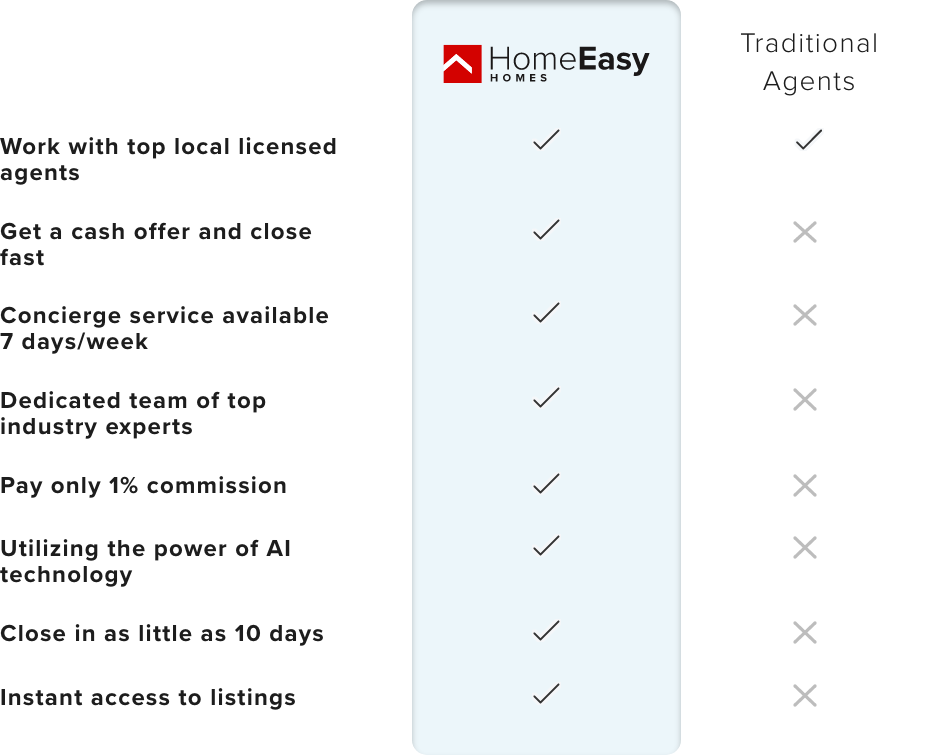
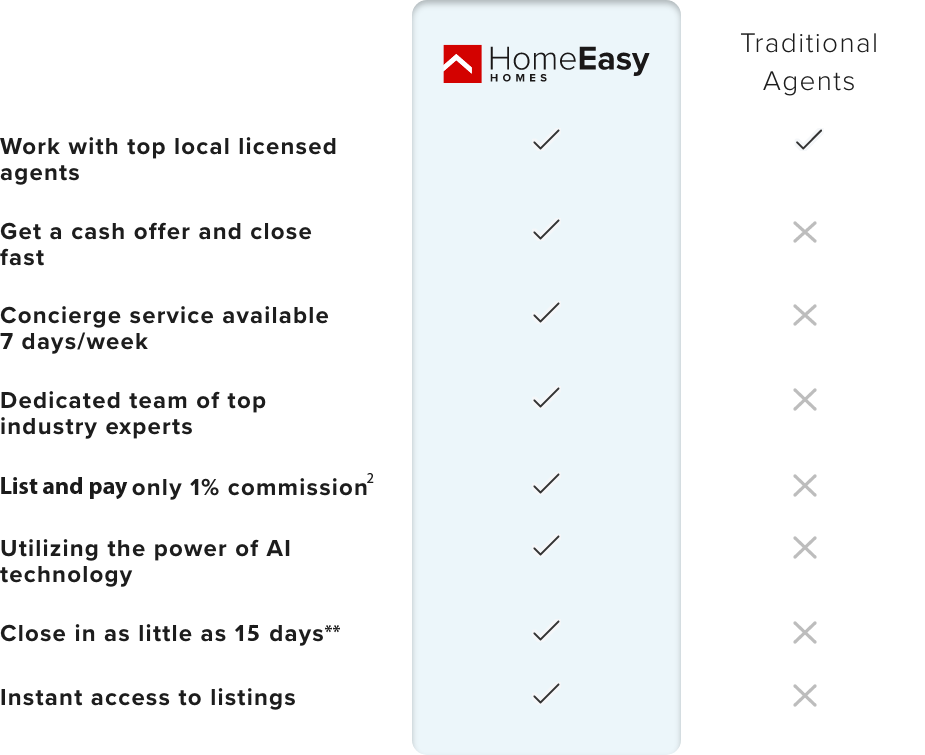
documentchages

Changed region(s): [[0.0, 0.6093, 0.3935, 0.6702], [0.2724, 0.8225, 0.3027, 0.853]]

diff --git a/src/components/Advantage.jsx b/src/components/Advantage.jsx
@@ -85,7 +85,7 @@ const Advantage = () => {
                         styles["advantage-content-callout-item-popover"]
                       }
                     >
-                      We will match you with top local agents.
+                      They are our Preferred Lender for a reason - their low rates are hard to beat!
                     </div>
                   </div>
                 </div>
@@ -108,8 +108,7 @@ const Advantage = () => {
                         styles["advantage-content-callout-item-popover"]
                       }
                     >
-                      Expert guidance and support to help you create a
-                      personalized plan when buying or selling a house.
+                     Get matched with a Preferred Agent and find your dream home!
                     </div>
                   </div>
                 </div>
@@ -129,9 +128,7 @@ const Advantage = () => {
                         styles["advantage-content-callout-item-popover"]
                       }
                     >
-                      Our agents are experts in negotiation and can help you in
-                      put together a competitive offer, even in the toughest
-                      markets.
+                      Get 1.5% of the loan amount back in closing credit, up to $10,000 from our Preferred Lender<sup>1</sup>.
                     </div>
                   </div>
                 </div>
@@ -151,8 +148,7 @@ const Advantage = () => {
                         styles["advantage-content-callout-item-popover"]
                       }
                     >
-                      Our streamlined process will have you closed in 30 days or
-                      less
+                      High-five! You found your dream home and saved thousands of dollars!
                     </div>
                   </div>
                 </div>
@@ -179,7 +175,7 @@ const Advantage = () => {
                 <div className={styles["advantage-content-item-card-copy"]}>
                 Sell your home with one of our Preferred Agents and save! Sell your
                 home instantly for cash avoiding listing and closing fees, or list with for
-                only 1% (compared to the average 5.37%*)!{" "}
+                only 1% (compared to the average  5.46%*)!{" "}
                 </div>
                 <div
                   className={styles["advantage-content-item-get-started-link"]}
@@ -225,8 +221,7 @@ const Advantage = () => {
                         styles["advantage-content-callout-item-popover"]
                       }
                     >
-                      Continuously monitor market data, listings, and buyer
-                      preferences.
+                       No staging, no photos, no open house, no inspections, no negotiating, no time wasted. Done in 15 days**.
                     </div>
                   </div>
                 </div>
@@ -250,8 +245,7 @@ const Advantage = () => {
                       }
                     >
                       {" "}
-                      Utilize the power of AI to analyze numerous data points to
-                      forecast market trends and opportunity.
+                      Don’t want an InstantOffer? Why pay the avg. 5.46%* listing fee to a realtor? List your home for only 1%<sup>2</sup>, keeping thousands in your pocket.
                     </div>
                   </div>
                 </div>
@@ -271,8 +265,7 @@ const Advantage = () => {
                         styles["advantage-content-callout-item-popover"]
                       }
                     >
-                      Analyze your search patterns creating a more accurate
-                      picture of what you really want.
+                       Our listing fee is just 1%<sup>2</sup> helping our average seller cuts costs by 50% on commissions and fees. Get the same full-service experience for thousands less!
                     </div>
                   </div>
                 </div>
@@ -355,7 +348,7 @@ const Advantage = () => {
                         styles["advantage-content-callout-item-popover"]
                       }
                     >
-                      The fastest way to sell your home, easy.
+                      No staging, no photos, no open house, no inspections, no negotiating, no time wasted. Done in 15 days**.
                     </div>
                   </div>
                 </div>
@@ -379,7 +372,7 @@ const Advantage = () => {
                       }
                     >
                       {" "}
-                      Save thousands in commissions.
+                      11.Don’t want an InstantOffer? Why pay the avg. 5.46%* listing fee to a realtor? List your home for only 1%<sup>2</sup>, keeping thousands in your pocket.
                     </div>
                   </div>
                 </div>
@@ -402,8 +395,7 @@ const Advantage = () => {
                         styles["advantage-content-callout-item-popover"]
                       }
                     >
-                      Secure your home now, unlock even greater possibilities
-                      later.
+                      Our Preferred Agent will also help you find your dream home!
                     </div>
                   </div>
                 </div>
@@ -426,8 +418,7 @@ const Advantage = () => {
                         styles["advantage-content-callout-item-popover"]
                       }
                     >
-                      Secure your home now, unlock even greater possibilities
-                      later.
+                     Bundle for savings. Get 1.5% of the loan amount back in closing credit, up to $10,000 from our Preferred Lender<sup>1</sup>.
                     </div>
                   </div>
                 </div>

diff --git a/src/app/questions/Questions.jsx b/src/app/questions/Questions.jsx
@@ -120,18 +120,24 @@ const Questions = () => {
     ];
     const questions3 = [
         {
-            title: "Why should I partner up with HomeEasy Homes?",
-            copy: "Elevate your business. Engage motivated, pre-approved buyers. Simplify transactions, concentrate on dedicated clients, and enhance negotiation capabilities, leading to quicker, seamless deals. Empower sellers with instant all-cash offers, reducing listing stress. Our real estate brokerage and closing units team up with mortgage experts, guaranteeing clients a fantastic deal and a frictionless process. When your clients save thousands, you’ll be the high-five hero!",
+            title: "Do I have to leave my brokerage to become a HomeEasy Homes Preferred Agent?",
+            copy: "Nope! You can stick with your current brokerage, the only difference is you get extra referral business from HomeEasy Homes.",
             visible: true,
         },
         {
-            title: "Can I keep working with buyers and sellers outside of HomeEasy Homes?",
-            copy: "Just like buying a home with a traditional broker – just a lot easier.  Everything you need to get started is right here at your fingertips.  Click through homes, 3D floor plans, virtual tours, detailed home descriptions, and location maps.  We even have a built in payment calculators to help you estimate your monthly costs.<br /><br />Found a home that catches your eye? Right from the listing page, you will be instantly matched with one of our friendly local real estate experts.  They&apos;re ready to provide you with the personalized guidance and support you need throughout your homebuying journey.<br /><br />No need to stress or search endlessly – we&apos;ve simplified the process to make it seamless and enjoyable for you.  So go ahead and start searching for your dream home right here, right now.  Your next home is just a click away!",
+            title: "Will I receive both buyer and seller leads?",
+            copy: " Yes, although most of our leads are buyers.",
             visible: false,
         },
         {
-            title: "Can I list homes that HomeEasy Homes owns",
-            copy: "o	Congrats! You found a home you love! We will start the process by matching you with a top local real estate expert who is there to guide you every step of the way, ensuring your homebuying journey is smooth, successful, and tailored to your unique needs.  From there, your agent will reach out and review your offer and answer any questions you may have.  They can also refer you to one of our mortgage experts to get you pre-approved and increase your buying power.  Once you and your agent come up with an offer you are comfortable with, you&apos;ll be able to sign and submit it digitally.<br/><br/>If your offer is accepted, your agent will draft a purchase agreement for both parties to sign.  Once the T&apos;s are crossed and the I&apos;s are dotted, you are officially in escrow.<br/><br/>If your offer is not accepted, we know it can be heartbreaking, but your agent will remain by your side and there to land the next one!",
+            title: "How many referrals can I expect?",
+            copy: "That will depend on the market, season, and inventory.",
+            visible: false,
+        },
+       
+        {
+            title: " Bummer you aren’t in my area. What can I do?",
+            copy: "We are expanding into new markets! If you are interested, please inquire and we will reach out as soon as we make it to your area.",
             visible: false,
         },
        

diff --git a/src/app/agents/ThreeByOneBlocksSellEasy.js b/src/app/agents/ThreeByOneBlocksSellEasy.js
@@ -16,12 +16,12 @@ const ThreeByOneBlocks = ({}) => {
         <div className={`${styles['main-component']}`}>
             <div className={`${styles['main-content-container']}  centered-content2`}>
                 <div className={`${styles['main-component-title']}`}>The HomeEasy advantage.</div>
-                <div className={`${styles['main-component-copy']}`}>Unlock new opportunities for your business by teaming up with HomeEasy Homes.</div>
+                <div className={`${styles['main-component-copy']}`}>Stay at your brokerage. Get motivate leads.</div>
                 <div className={`${styles['items']}`}>
                     
                      <div className={`${styles['item']}`}>
                         <div className={`${styles['item-title-container']}`}>A steady flow of motivated customers.</div>
-                        <div className={`${styles['item-copy-container']}`}>HomeEasy Homes is the top choice for more and more buyers and sellers who are really serious. Your leads are all pre-approved and ready to shop, giving you great earning potential.</div>
+                        <div className={`${styles['item-copy-container']}`}>Our buyer’s leads are all pre-approved and ready to shop, giving you great earning potential.</div>
                     </div>
                     
                     <div className={`${styles['item']}`}>
@@ -41,7 +41,7 @@ const ThreeByOneBlocks = ({}) => {
                     
                     <div className={`${styles['item']}`}>
                         <div className={`${styles['item-title-container']}`}>A commission rate that your wallet loves.</div>
-                        <div className={`${styles['item-copy-container']}`}>We’re not like the others – our commission is just 35%, leaving you with more of your hard-earned money.  Because we believe as a team, your success is our success.</div>
+                        <div className={`${styles['item-copy-container']}`}>We’re not like the others – our commission leaves you with more of your hard-earned money.  Because we believe as a team, your success is our success.</div>
                     </div>
 
                 </div>

diff --git a/src/app/buyandsell/HomeEasyBuyers.js b/src/app/buyandsell/HomeEasyBuyers.js
@@ -5,7 +5,7 @@
 import useWindowSize from "@/hooks/useWindowSize";
 
 import styles from "./HomeEasyBuyers.module.scss";
-import ArrowButton from "../../components/fluid/ArrowButton";
+import ArrowButton from '@/components/ArrowButton';
 
 const HomeEasyBuyers = ({}) => {
     const size = useWindowSize();
@@ -25,14 +25,14 @@ const HomeEasyBuyers = ({}) => {
                     </div>
 
                     <div className={`${styles["main-copy-copy-title"]}`}>Same day pre-approval.</div>
-                    <div className={`${styles["main-copy-copy"]}`}>Ready to buy a home in today’s market? Speed is key, and our Preferred Lender, offers same-day pre-approvals for eligible buyers</div>
+                    <div className={`${styles["main-copy-copy"]}`}>Ready to buy a home in today’s market? Speed is key, and our Preferred Lender, offers same-day pre-approvals for eligible buyers.</div>
 
                     <div className={`${styles["main-copy-copy-title"]}`}>Instant access to listings.</div>
-                    <div className={`${styles["main-copy-copy"]}`}>Get the latest listings sent directly to your phone or email, keeping the real estate market at your fingertips</div>
+                    <div className={`${styles["main-copy-copy"]}`}>Get the latest listings sent directly to your phone or email, keeping the real estate market at your fingertips.</div>
 
                     <div className={`${styles["main-copy-copy-title"]}`}>Who you work with matters.</div>
                     <div className={`${styles["main-copy-copy"]}`}>
-                        Tap into our close-knit network of Preferred Agents and Lenders, and get 1.50% of your financed loan up to $10,000 towards your closing costs<sup>1</sup>
+                        Tap into our close-knit network of Preferred Agents and Lenders, and get 1.50% of your financed loan up to $10,000 towards your closing costs<sup>1</sup>.
                     </div>
 
                     <ArrowButton

diff --git a/src/app/agents/HomeEasyAgents.js b/src/app/agents/HomeEasyAgents.js
@@ -5,7 +5,7 @@
 import useWindowSize from "@/hooks/useWindowSize";
 
 import styles from './HomeEasyAgents.module.scss';
-import ArrowButton from '../../components/fluid/ArrowButton';
+import ArrowButton from '@/components/ArrowButton';
 
 const HomeEasyAgents = ({}) => {
     const size = useWindowSize();
@@ -28,10 +28,10 @@ const HomeEasyAgents = ({}) => {
                     <div className={`${styles['main-copy-copy']}`}>Keep more of your hard-earned money with only 35% commission.  An extra perk, we take that 35% and give it back to your client to put towards closing costs or buying down their interest rates.</div>
 
                     <div className={`${styles['main-copy-copy-title']}`}>Who you work with matters.</div>
-                    <div className={`${styles['main-copy-copy']}`}>By partnering up with our mortgage experts, you can ensure your client not only scores a fantastic deal but also breeze through the mortgage process effortlessly.</div>
+                    <div className={`${styles['main-copy-copy']}`}>By partnering up with our mortgage experts, you can ensure your client not only receives a closing credit, but also breeze through the mortgage process effortlessly and with low rates.</div>
 
                     <div className={`${styles['main-copy-copy-title']}`}>Look like a hero.</div>
-                    <div className={`${styles['main-copy-copy']}`}>When your clients save thousands, you’ll be the one they high-five with gratitude!</div>
+                    <div className={`${styles['main-copy-copy']}`}>When your clients save thousands, you’ll be the one they high-five!</div>
                     <div className={`${styles['main-copy-footer']}`}>
                         <ArrowButton
                             link_text="Sign up now"

diff --git a/src/app/buyandsell/HowItWorks.js b/src/app/buyandsell/HowItWorks.js
@@ -49,14 +49,14 @@ const HowItWorks = ({}) => {
                         </div>
 
                         <div className={`${styles["main-copy-copy-title"]}`}>Step 2</div>
-                        <div className={`${styles["main-copy-copy"]}`}>Get a same day pre-approval with our Preferred Lender for low interest rates and same day pre-approval</div>
+                        <div className={`${styles["main-copy-copy"]}`}>Get a same day pre-approval with our Preferred Lender for low interest rates and same day pre-approval.</div>
 
                         <div className={`${styles["main-copy-copy-title"]}`}>Step 3</div>
-                        <div className={`${styles["main-copy-copy"]}`}>Discover a home you love, make an offer, negotiate, inspect, and appraise – all with your agent right by your side</div>
+                        <div className={`${styles["main-copy-copy"]}`}>Discover a home you love, make an offer, negotiate, inspect, and appraise – all with your agent right by your side.</div>
 
                         <div className={`${styles["main-copy-copy-title"]}`}>Step 4</div>
                         <div className={`${styles["main-copy-copy"]}`}>
-                            Sold & offer accepted! Save thousands, pop the champagne and get packing! Plus receive a lender paid credit of 1.50%1 of your financed loan amount up to $10,000 to put towards your closing costs
+                            Sold & offer accepted! Save thousands, pop the champagne and get packing! Plus receive a lender paid credit of 1.50%<sup>1</sup> of your financed loan amount up to $10,000 to put towards your closing costs.
                         </div>
                         <div className={`${styles["main-copy-footer"]}`}>
                             <ArrowButton

diff --git a/src/components/Header.jsx b/src/components/Header.jsx
@@ -655,19 +655,18 @@ const Header = () => {
                     <div className={styles['header-content']}>
                     <div className={styles["transparentprocess-content-tabs-tabs"]}>
 
+                    <div onClick={()=>{
+                          // gtmPush(["callback", "home_hero_buy", ()=>{changeIndex("buy");}]);
+                          changeIndex("buy");
+                        }} className={`${styles["transparentprocess-content-tabs-tab"]} ${flow === "buy" ? styles["transparentprocess-content-tabs-tab-selected"] : ''}`}>
+                        Buy
+                        </div>
                         <div onClick={()=>{
                           // gtmPush(["callback", "home_hero_sell", ()=>{changeIndex("sell");}]);
                           changeIndex("sell");                          
                         }} className={`${styles["transparentprocess-content-tabs-tab"]} ${flow === "sell" ? styles["transparentprocess-content-tabs-tab-selected"] : ''}`}>
                         Sell
-                        </div>
-
-                        <div onClick={()=>{
-                          // gtmPush(["callback", "home_hero_buy", ()=>{changeIndex("buy");}]);
-                          changeIndex("buy");
-                        }} className={`${styles["transparentprocess-content-tabs-tab"]} ${flow === "buy" ? styles["transparentprocess-content-tabs-tab-selected"] : ''}`}>
-                        Buy
-                        </div>                     
+                        </div>      
                         <div onClick={()=>{
                           // gtmPush(["callback", "home_hero_buy_sell", ()=>{changeIndex("sellbuy");}]);
                           changeIndex("sellbuy");

diff --git a/src/components/fluid/Footer2.jsx b/src/components/fluid/Footer2.jsx
@@ -593,7 +593,7 @@ const Footer = ({ centered_style }) => {
                         {windowSize.width > 1023 && (
                             <div className={styles["lower-footer-content-middle"]}>
                                 <div className={styles["lower-footer-content-middle-copyright-container"]}>
-                                    <div className={styles["lower-footer-content-middle-copyright"]}>HomeEasy Homes © 2023. All Rights Reserved</div>
+                                    <div className={styles["lower-footer-content-middle-copyright"]}>HomeEasy Homes © 2024. All Rights Reserved</div>
                                 </div>
                                 <div className={styles["lower-footer-content-middle-links-container"]}>
                                     <div className={styles["lower-footer-content-middle-links"]}>
@@ -819,7 +819,7 @@ const Footer = ({ centered_style }) => {
                     {/* footer custom text */}
                     <div className={`${styles["bottom_footer_text"]} centered-content2`}>
                         <div className={styles["inner"]}>
-                            <p>* Overall, the national average Realtor commission in 2022 was 5.37 percent, according to data from Clever</p>
+                        <p>*Overall, the national average Realtor commission in 2023 was 5.46% according to data from <a href="">Statista.com</a></p>
                             <p>**Average InstantOffer closes in 15 days. This does not guarantee that every sale will.</p>
                         </div>
                         <div className={styles["grand_text"]}>

diff --git a/src/app/buyandsell/ThreeByOneBlocksSellEasy.js b/src/app/buyandsell/ThreeByOneBlocksSellEasy.js
@@ -22,7 +22,7 @@ const ThreeByOneBlocks = ({}) => {
                     
                     <div className={`${styles['item']}`}>
                         <div className={`${styles['item-title-container']}`}>Get an InstantOffer and avoid listing.</div>
-                        <div className={`${styles['item-copy-container']}`}>No staging, no photos, no open house, no inspections, no negotiating, no time wasted. Done in 15 days.</div>
+                        <div className={`${styles['item-copy-container']}`}>No staging, no photos, no open house, no inspections, no negotiating, no time wasted. Done in 15 days**</div>
                         <div className={`${styles['item-foot-container']}`}>
                             <ArrowButton
                                 small_text={true}
@@ -36,7 +36,7 @@ const ThreeByOneBlocks = ({}) => {
                     
                     <div className={`${styles['item']}`}>
                         <div className={`${styles['item-title-container']}`}>Save thousands, list for only 1%<sup>2</sup> .</div>
-                        <div className={`${styles['item-copy-container']}`}>Why pay the 6% listing fee to a realtor? List your home for only 1%, keeping thousands in your pocket.</div>
+                        <div className={`${styles['item-copy-container']}`}>Why pay the 5.46% listing fee to a realtor? List your home for only 1%, keeping thousands in your pocket.</div>
                         <div className={`${styles['item-foot-container']}`}>
                             <ArrowButton
                                 small_text={true}

diff --git a/src/components/fluid/Footer.jsx b/src/components/fluid/Footer.jsx
@@ -278,7 +278,7 @@ By searching, you agree to the <a href="/tos" target="_blank">Terms of Use</a>, 
                         {windowSize.width > 1023 &&
                         <div className={styles["lower-footer-content-middle"]}>
                             <div className={styles["lower-footer-content-middle-copyright-container"]}>
-                                <div className={styles["lower-footer-content-middle-copyright"]}>HomeEasy Homes © 2023. All Rights Reserved</div>
+                                <div className={styles["lower-footer-content-middle-copyright"]}>HomeEasy Homes © 2024. All Rights Reserved</div>
                             </div>
                             <div className={styles["lower-footer-content-middle-links-container"]}>
                                 <div className={styles["lower-footer-content-middle-links"]}>
@@ -374,7 +374,7 @@ By searching, you agree to the <a href="/tos" target="_blank">Terms of Use</a>, 
  {/* footer custom text */}
  <div className={`${styles['bottom_footer_text']} centered-content2`}> 
                         <div className={styles["inner"]}>
-                            <p>* Overall, the national average Realtor commission in 2022 was 5.37 percent, according to data from Clever</p>
+                            <p>*Overall, the national average Realtor commission in 2023 was 5.46% according to data from <a href="">Statista.com</a></p>
                             <p>**Average InstantOffer closes in 15 days. This does not guarantee that every sale will.</p>
                        
                         </div>

diff --git a/src/components/FlowContactForm.js b/src/components/FlowContactForm.js
@@ -216,7 +216,7 @@ const FlowContactForm = ({callback, store_key}) => {
                         <div className={`${styles['contact-form-text-input-error']}`}>{mobile_phone_number_error}</div>
                     </div>
                 </div>
-                <div className={`${styles['contact-form-disclaimer-container']}`}>By clicking Continue, I agree to HomeEasy Home’s <a href="">Terms of Use</a> , <a href="">Privacy Policy</a> , and the <a href="">Affiliated Business Disclosure and Privacy Notice</a> and I agree that HomeEasy Homes and its affiliated companies may contact me via phone or text, including by automated means. I understand that standard message/data rates may apply. HomeEasy Homes does not sell customer data.</div>
+                <div className={`${styles['contact-form-disclaimer-container']}`}>By clicking Continue, I agree to HomeEasy Home’s <a href="">Terms of Use</a> , <a href="/tos">Privacy Policy</a> , and the <a href="">Affiliated Business Disclosure and Privacy Notice</a> and I agree that HomeEasy Homes and its affiliated companies may contact me via phone or text, including by automated means. I understand that standard message/data rates may apply. HomeEasy Homes does not sell customer data.</div>
             </div>
         </div>
     )

diff --git a/src/app/sell/ListingForOne.js b/src/app/sell/ListingForOne.js
@@ -29,7 +29,7 @@ const ListingForOne = ({}) => {
                 </div>
                 } */}
                 {size.width < 1024 &&
-                <div className={`${styles['main-image-container']}`}>
+                <div className={`${styles['main-image-container']}`} id="listings">
                     <img src="/img/listingforone_house.png" alt="listing for one percent" />
                 </div>
                 }
@@ -42,7 +42,7 @@ const ListingForOne = ({}) => {
                     <div className={`${styles['main-copy-title']}`}>Work with a full-service Preferred
 Agent for only 1%.</div>
 
-                    <div className={`${styles['main-copy-copy']}`}> Prefer to list? No problem! Our listing fee is just 1%2 helping our
+                    <div className={`${styles['main-copy-copy']}`}> Prefer to list? No problem! Our listing fee is just 1%<sup>2</sup> helping our
 average seller cuts costs by 50% on commissions and fees. We’ve
 got your back from listing to closing, ensuring a stress-free
 experience.</div>
